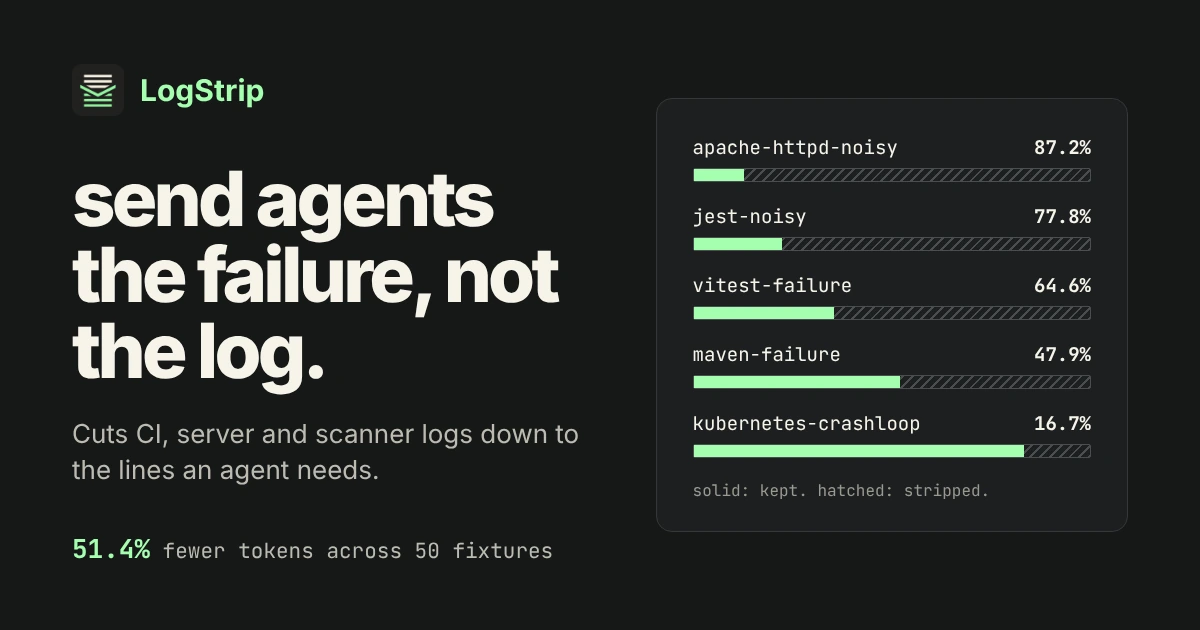
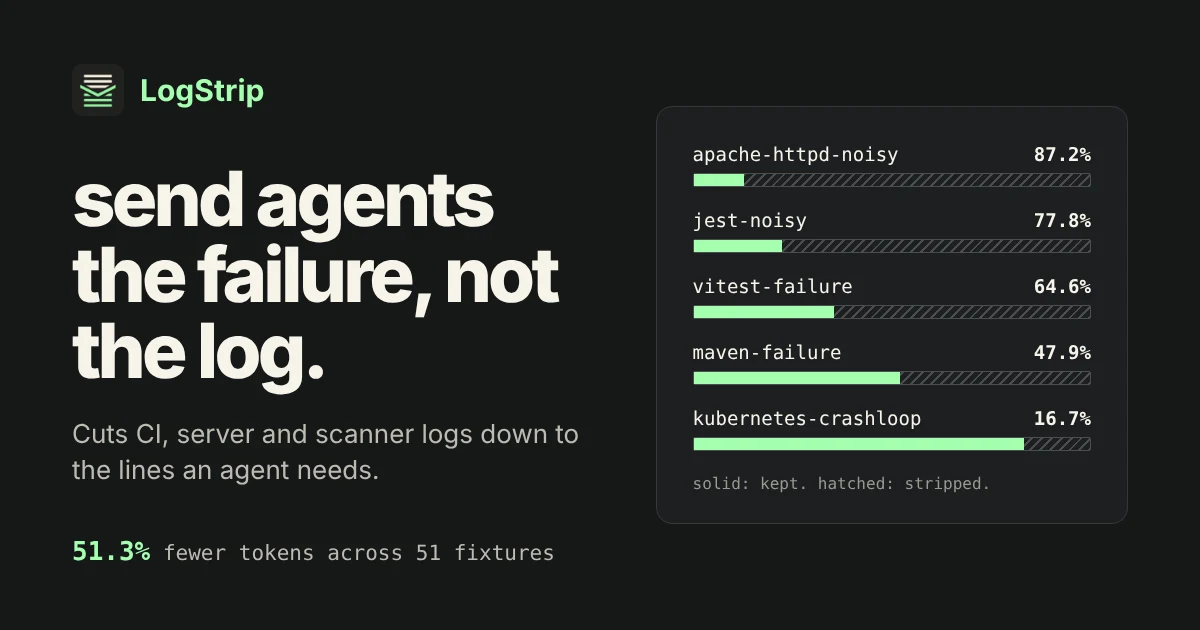
docs: refresh the share image with the current fixture totals

diff --git a/apps/docs/og/og-image.html b/apps/docs/og/og-image.html
@@ -115,7 +115,7 @@
         <div class="brand"><img src="../public/assets/images/logo-icon-256.png" alt="" />LogStrip</div>
         <h1>send agents the failure, not the log.</h1>
         <p>Cuts CI, server and scanner logs down to the lines an agent needs.</p>
-        <div class="total"><strong>51.4%</strong> fewer tokens across 50 fixtures</div>
+        <div class="total"><strong>51.3%</strong> fewer tokens across 51 fixtures</div>
       </div>
       <div class="right">
         <div class="row"><span>apache-httpd-noisy</span><b>87.2%</b><span class="bar"><i style="width: 12.8%"></i></span></div>
